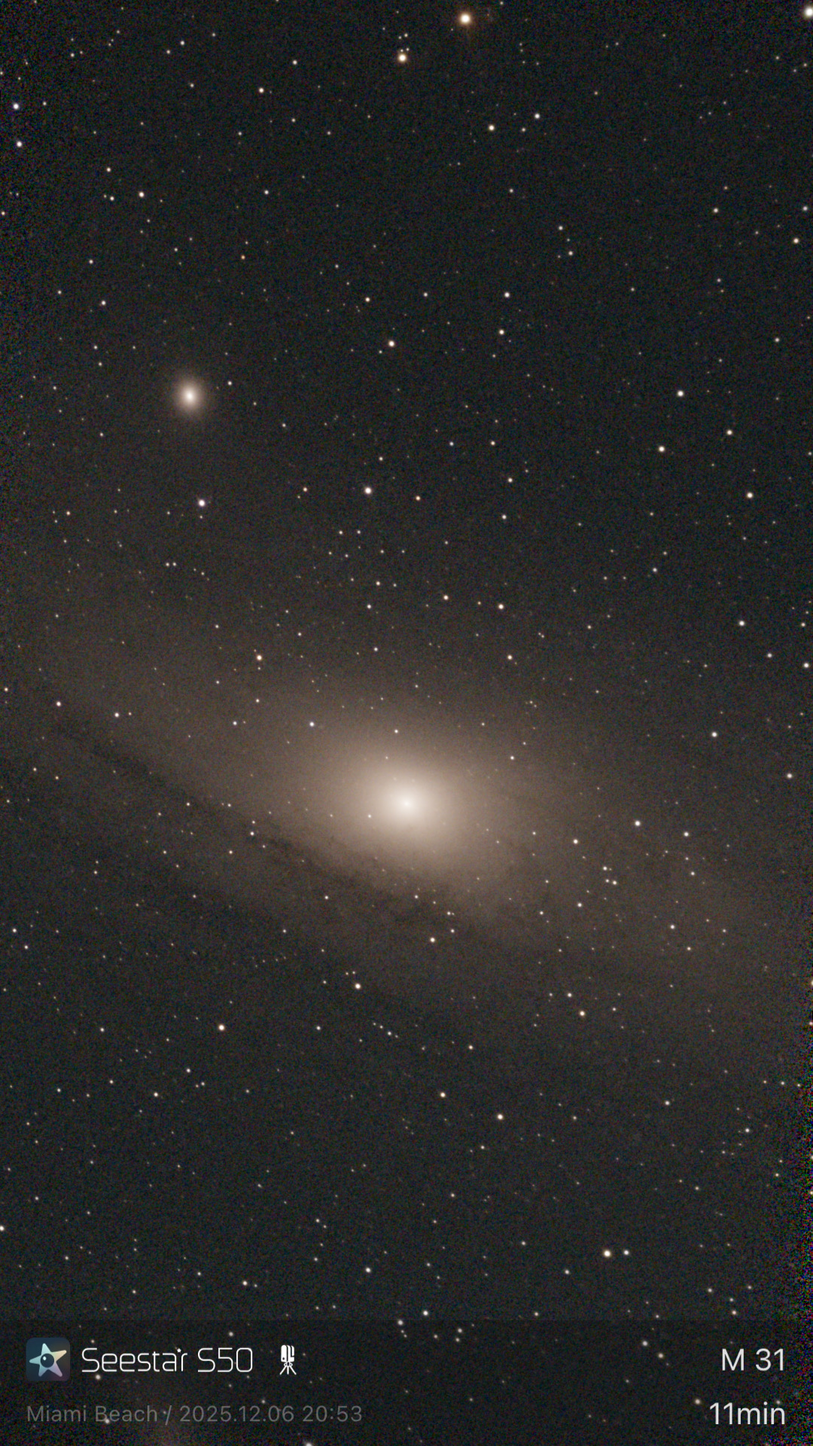
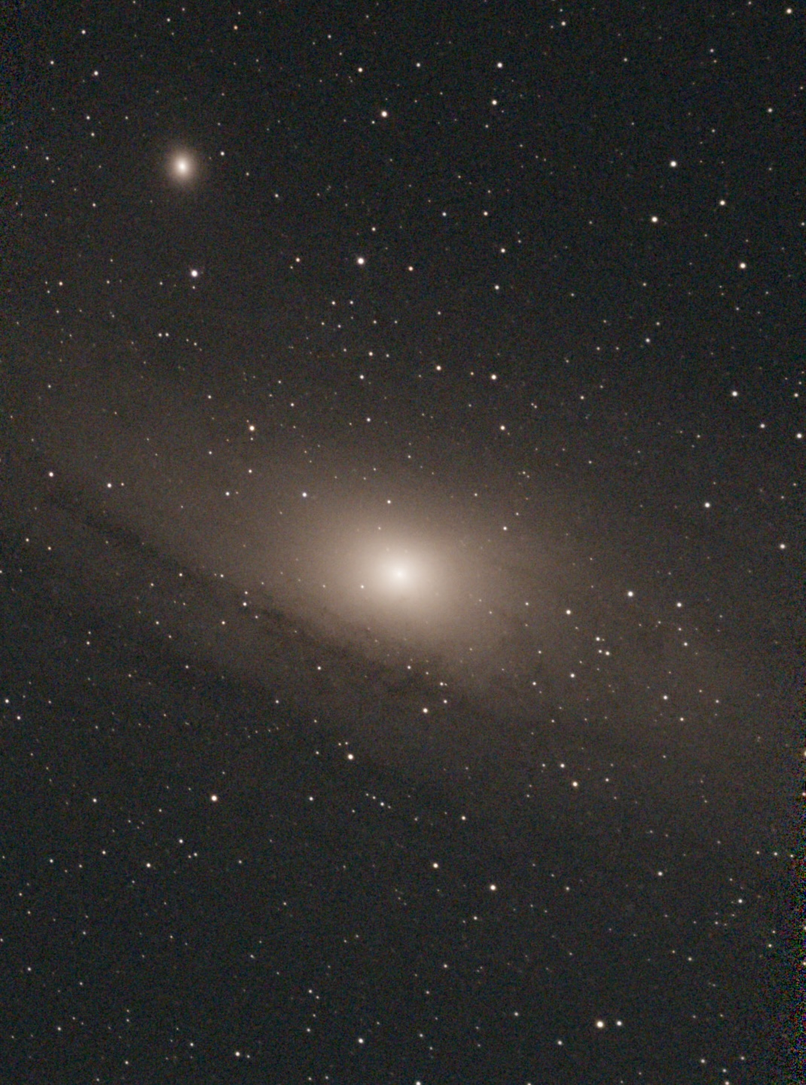
removed thoughts for now

diff --git a/index.html b/index.html
@@ -238,8 +238,8 @@ HOW TO USE
       <h2>Notes & Blog</h2>
       <div class="card list">
         <article>
-          <h3>Thought<span class="muted">— Oct 2025</span></h3>
-          <p>Math is the gateway drug into other areas of inquiry.</p>
+          <!-- <h3>Thought<span class="muted">— Oct 2025</span></h3>
+          <p>Math is the gateway drug into other areas of inquiry.</p> -->
 
   
 <!-- 
@@ -356,7 +356,7 @@ HOW TO USE
         </a>
         <a href="#art3">
           <figure>
-            <img src="/astro/andromeda_contrast.jpg" alt="andromeda_galaxy" />
+            <img src="/astro/andromeda.JPG" alt="andromeda_galaxy" />
             <figcaption>Andromeda Galaxy, 2025.</figcaption>
           </figure>
         </a>
@@ -380,7 +380,7 @@ HOW TO USE
     </div>
     <div class="lightbox" id="art3">
       <a href="#art" class="close"></a>
-      <img src="/astro/andromeda_contrast.jpg" alt="andromeda_galaxy" />
+      <img src="/astro/andromeda.JPG" alt="andromeda_galaxy" />
     </div>
     <div class="lightbox" id="art4">
       <a href="#art" class="close"></a>
